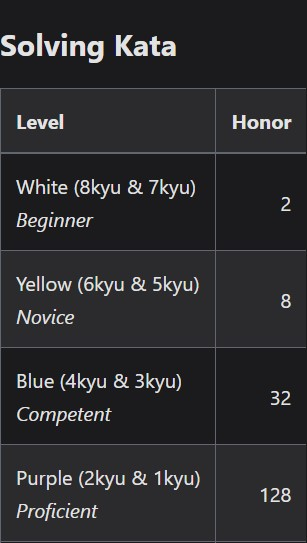
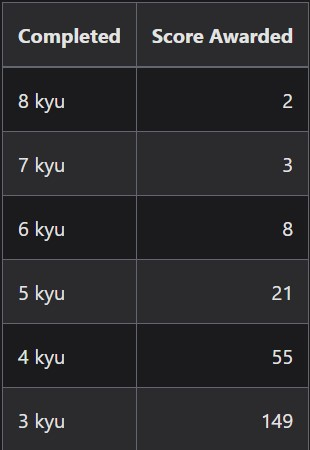
updt/ README

Changed region(s): [[0.0, 0.0, 0.9967, 1.0], [0.8795, 0.6222, 0.9381, 0.6844]]

diff --git a/README.md b/README.md
@@ -26,12 +26,14 @@
 ### Puntuaciones Recibidas por dificultad de Kata
 *Presiona ctrl+click sobre la imagen para ver la misma imagen en la pagina de documentacion oficial*
 
-<a href="https://docs.codewars.com/gamification/honor/#solving-kata"><img src="./styles/imgs/solvingKata.jpg" width="30%"/></a>
+<a href="https://docs.codewars.com/gamification/ranks/#awarded-score"><img src="./styles/imgs/solvingKata.jpg" width="36.75%"/></a>
 <a href="https://docs.codewars.com/gamification/ranks#required-score"><img src="./styles/imgs/requiredScore.jpg" width="29.8%"/></a>
 
 </Br>
 
-[Visualiza mi puntuacion en su API](https://www.codewars.com/api/v1/users/PabloMatMar)
+##### *No confundir el score con el honor, el honor es el que aparece en la badge y el score el que aparece en la api. El score siempre es mas alto(salvo que ademas de resolver ejercicios te dediques a crearlos) Se consigue menos honor que score por resolver ejercicos del mismo nivel: https://docs.codewars.com/gamification/honor/#solving-kata*
+
+
 
 </Br>
 
